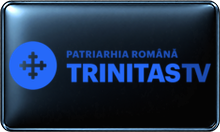
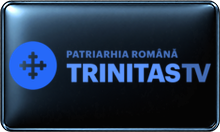
Repair seven more BLACK/WHITE variants

Changed region(s): [[0.3, 0.3636, 0.9545, 0.6364]]

diff --git a/reports/black-white-qc-2026-10-09/batch-011/checkpoint.md b/reports/black-white-qc-2026-10-09/batch-011/checkpoint.md
@@ -1,0 +1,15 @@
+- Remote branch parent immediately before batch 011 push: `bd140678ae333742bfe51ddfee01feb2f3cb0ba9`.
+- Work began against the unchanged target files at baseline `e42b74943b0aa0d7efe3f8e6e18c4ebfb31f3a47`.
+# BLACK/WHITE QC batch 011
+
+- Remote branch baseline after batch 009: `bd140678ae333742bfe51ddfee01feb2f3cb0ba9`.
+- Local shared-checkout HEAD at this task: `719dd59ec5ef09a28503d21d3f21bad011de442a` (not the remote baseline).
+- Repaired 7 outputs: Casa Gold WHITE, Trinitas BLACK, Televízna Favorit WHITE, TV Favorit WHITE, Nat Geo Wild WHITE, Disney Channel WHITE and National Geographic WHITE.
+- Before editing, all seven output PNGs were verified against the current transparent source and pinned `fit_logo` + `classify_and_render` output.
+- Contrast masks were built in memory on fitted transparent layers; the pinned production renderer and exact MASTER templates generated each final PNG.
+- Casa Gold and both Favorit gold wordmarks were darkened as coherent monochromatic gold marks. The Favorit flower integrated into the O retains the same gold hue.
+- Trinitas detached wordmark/tagline components were brightened; the largest connected circular emblem remained pixel-identical.
+- Nat Geo Wild and National Geographic changed only achromatic text; yellow frame pixels are unchanged. Disney white lettering and detached cyan CHANNEL glyphs were darkened, with the cyan Mickey accent unchanged.
+- All seven final outputs are valid 220×132 RGBA PNGs. Output diffs are confined to the temporary local masks; fitted source pixels outside masks are identical.
+- Transparent sources and MASTER templates were not written.
+- Per-output hashes and counts: `repair-manifest.csv`; visual comparison: `batch-011-before-after.png`.
